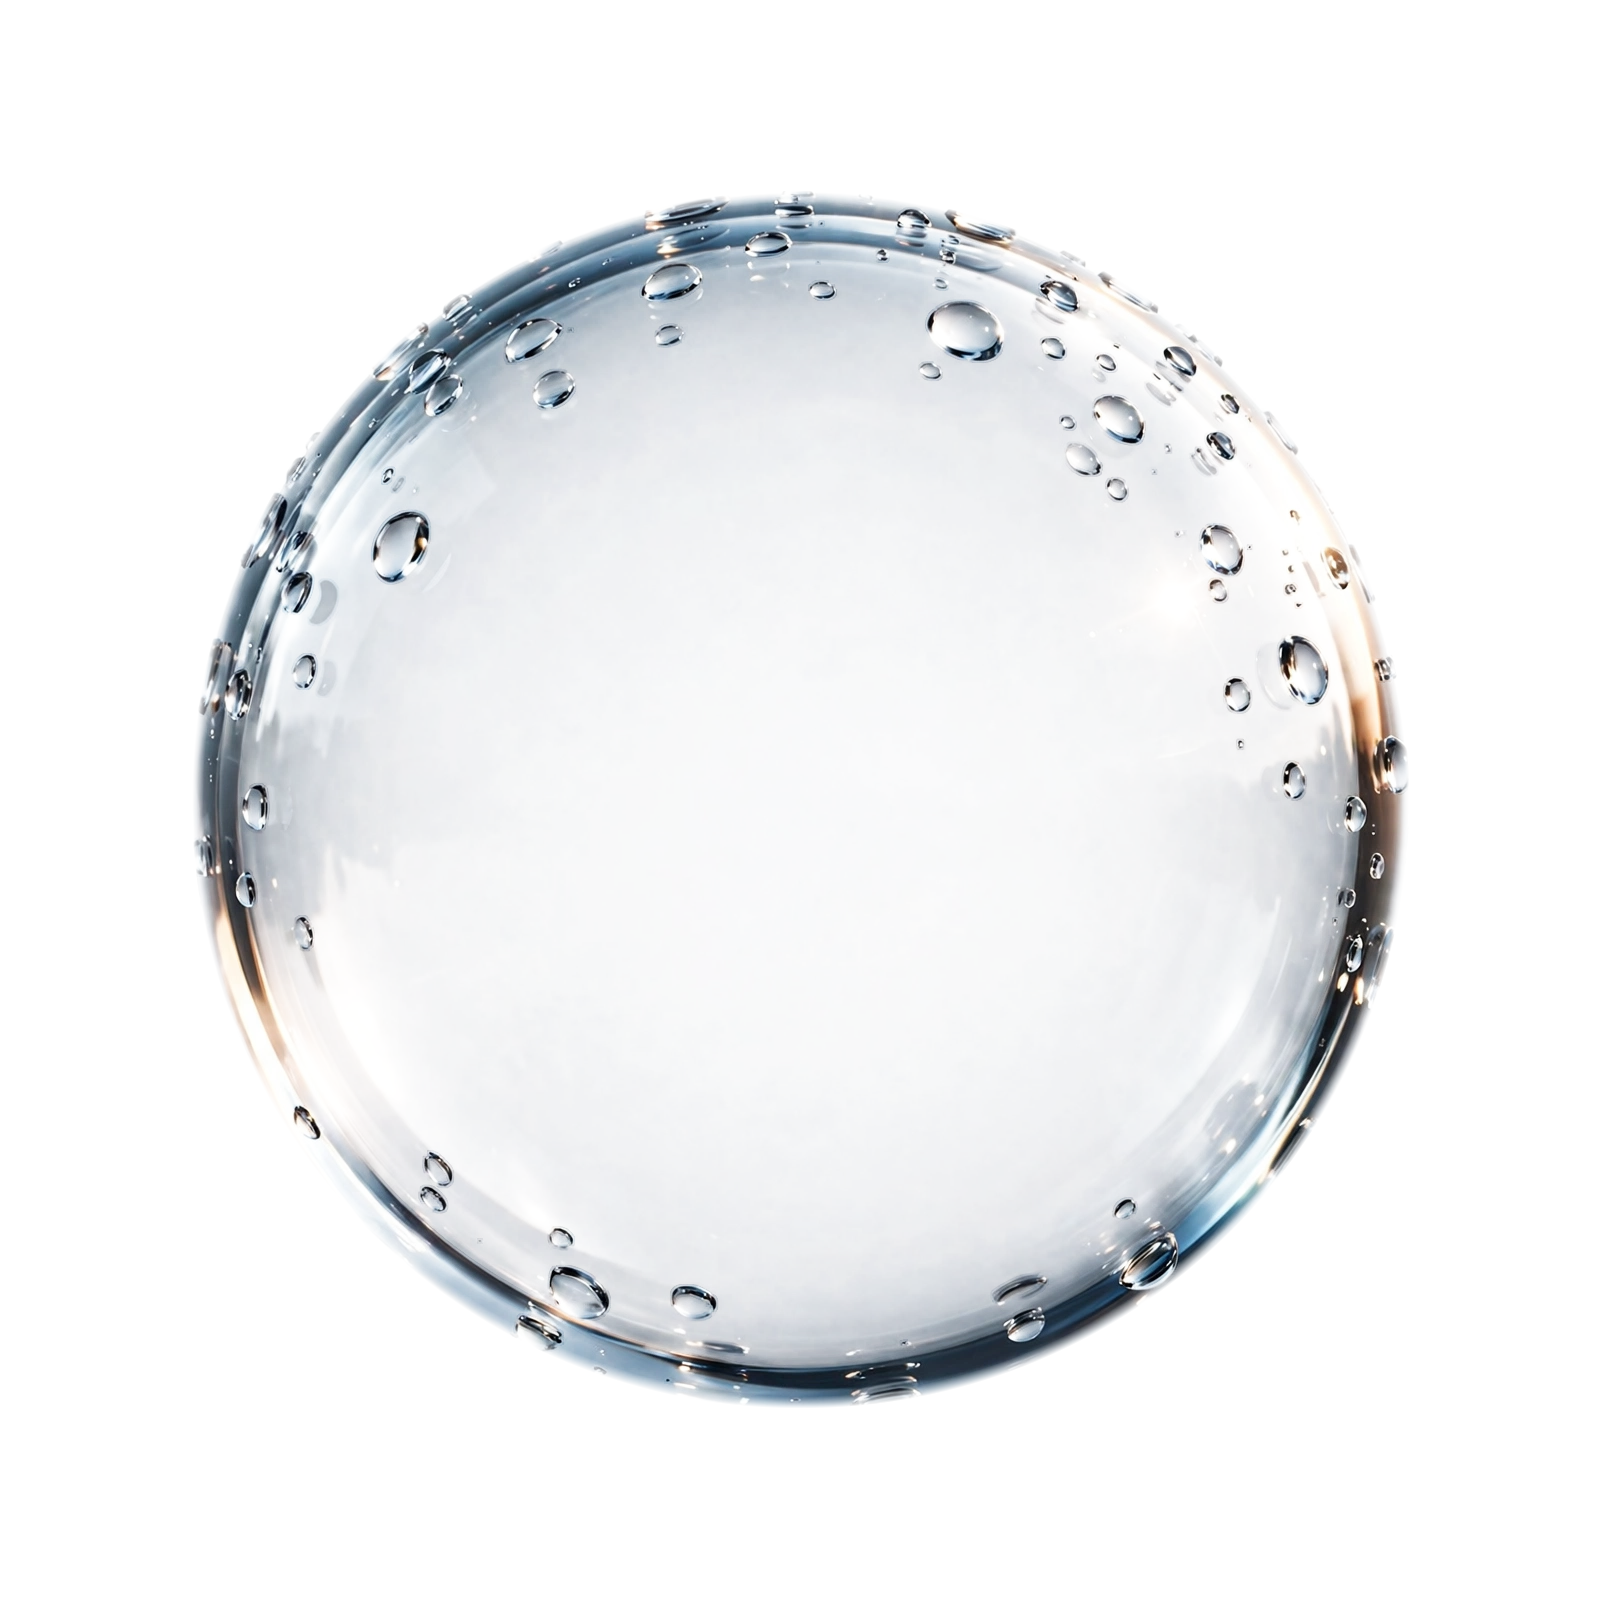
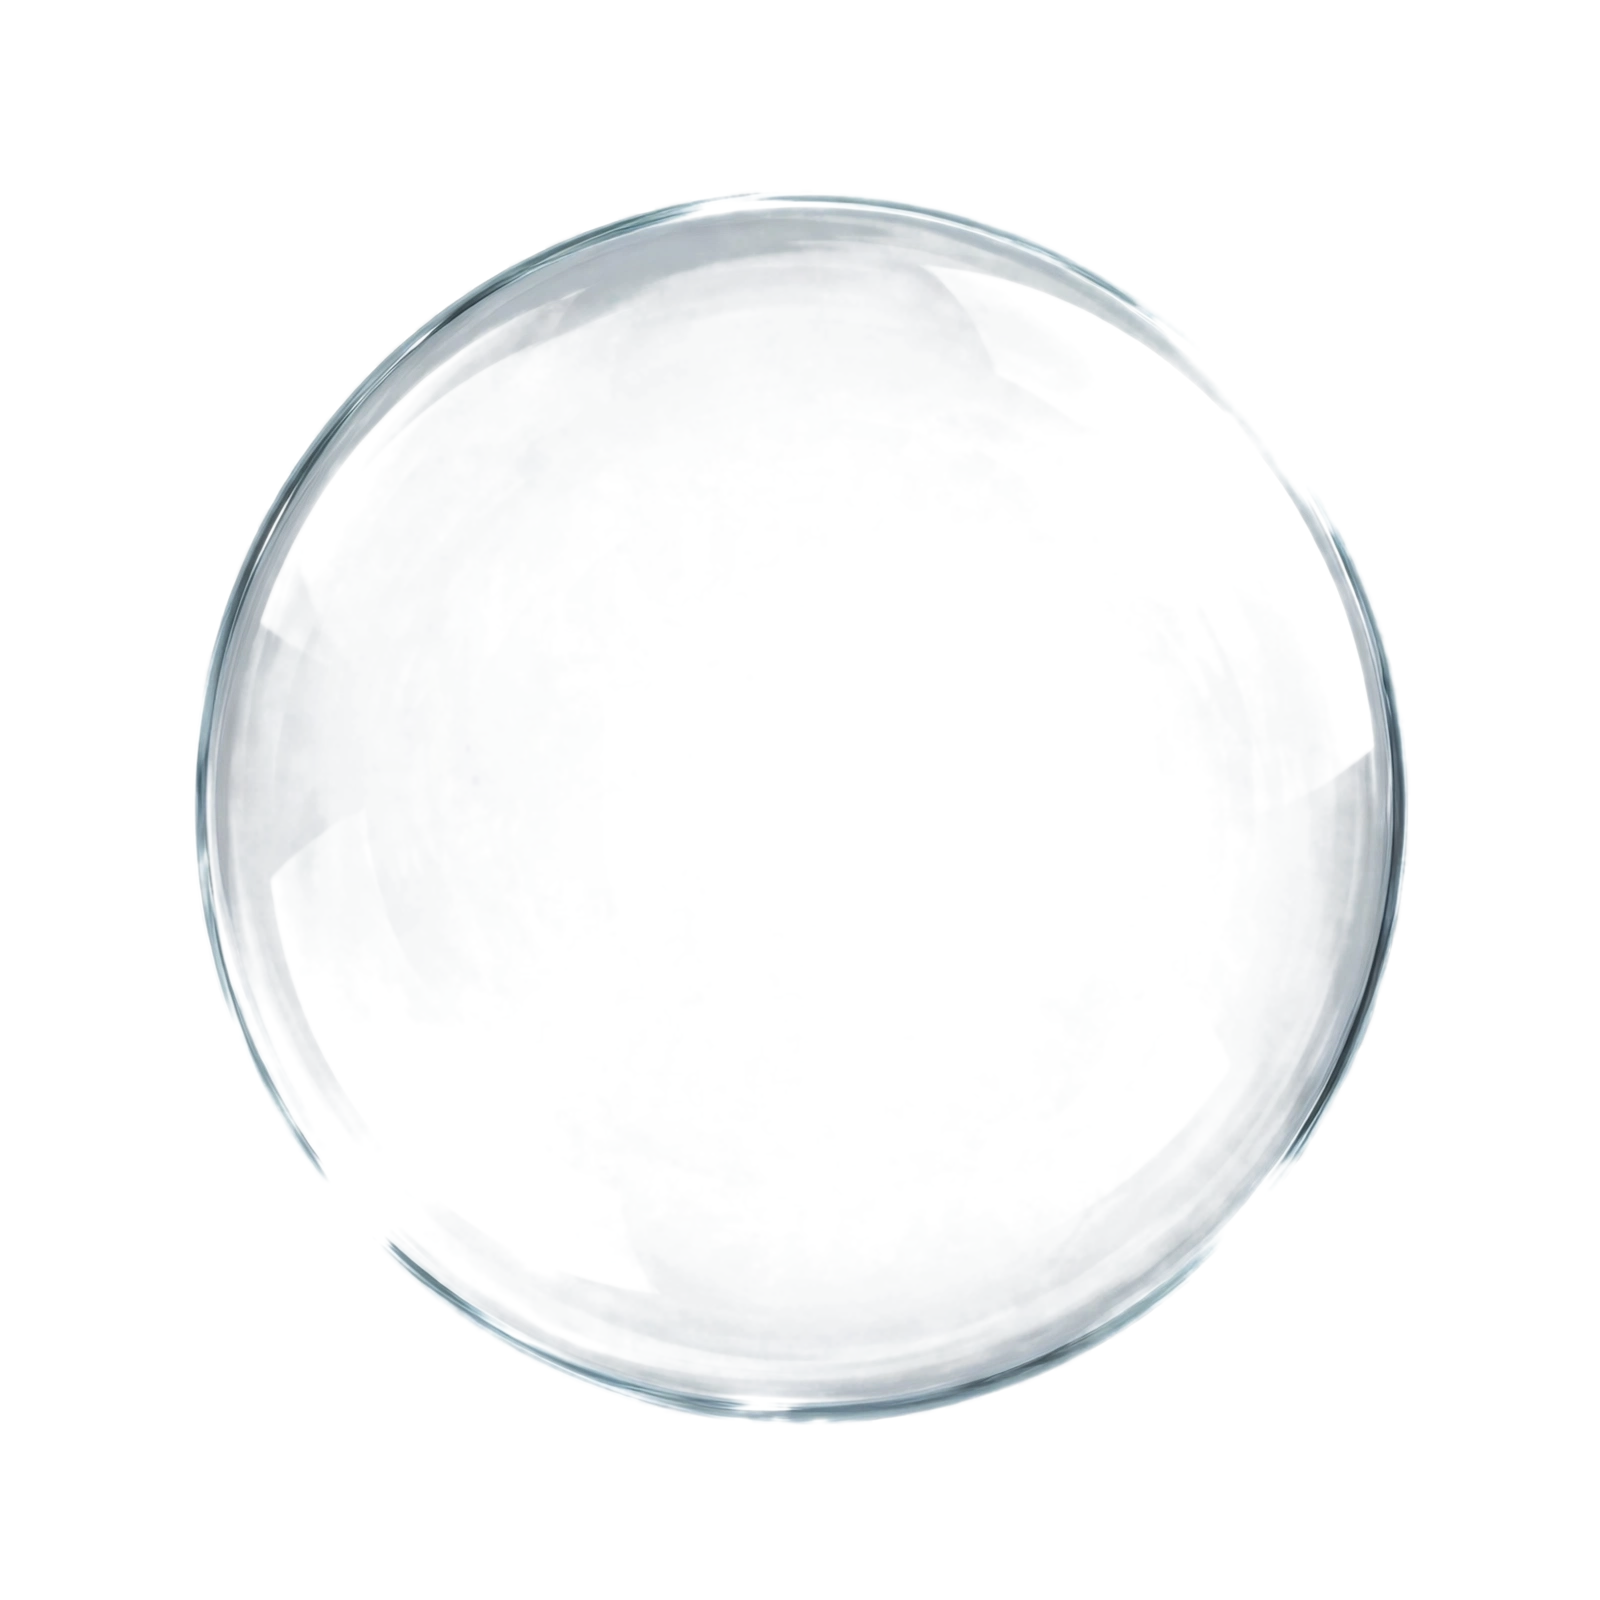
Natural meadow flora (blended photos, gust wind motion), doctor photo tile, clean minimal bubble

Changed region(s): [[0.125, 0.125, 0.9062, 0.9062]]

diff --git a/frontend/app/page.tsx b/frontend/app/page.tsx
@@ -42,7 +42,7 @@ export default function LandingPage() {
         gsap.set(".hl-inner", { yPercent: 0 });
         gsap.set("[data-fade]", { opacity: 1, y: 0 });
         gsap.set("[data-orb-enter]", { opacity: 1, scale: 1 });
-        gsap.set(".flora-layer", { rotation: 0, x: 0 });
+        gsap.set(".flora-layer", { xPercent: 0, skewX: 0 });
         gsap.set("[data-petal]", { opacity: 0.7 });
         return;
       }
@@ -131,6 +131,38 @@ export default function LandingPage() {
 
       // Subtle mouse parallax on the whole bubble group (±18px)
       const fine = window.matchMedia("(pointer: fine)").matches;
+
+      // ── Botanical wind: horizontal drift with irregular gusts ─
+      // Each 120%-wide photo layer drifts ±2–3% sideways with a soft
+      // skewX "breeze bend". Gusts alternate lulls and pushes with
+      // randomized timing — never a perfect pendulum sine. Back and
+      // front layers drift in opposite phases for parallax depth.
+      const gustDrift = (layer: HTMLElement, dir: 1 | -1) => {
+        const push = () => {
+          gsap.to(layer, {
+            xPercent: dir * rand(1.2, 2.8),
+            skewX: dir * rand(0.2, 0.6),
+            duration: rand(2, 3.2),
+            ease: "power1.inOut",
+            onComplete: () => {
+              gsap.to(layer, {
+                xPercent: dir * rand(-0.6, 0.6),
+                skewX: 0,
+                duration: rand(3, 5),
+                ease: "sine.inOut",
+                onComplete: () => gsap.delayedCall(rand(0.4, 1.8), push),
+              });
+            },
+          });
+        };
+        gsap.delayedCall(rand(0, 1.5), push);
+      };
+      const driftFlora = () => {
+        gsap.utils
+          .toArray<HTMLElement>(".flora-layer")
+          .forEach((layer, i) => gustDrift(layer, i === 0 ? -1 : 1));
+      };
+
       if (fine && parallaxRef.current) {
         const qx = gsap.quickTo(parallaxRef.current, "x", {
           duration: 0.9,
@@ -148,20 +180,7 @@ export default function LandingPage() {
         };
         window.addEventListener("mousemove", onMove);
 
-        // ── Botanical wind: each photo layer sways on its own
-        // rhythm for parallax depth ─────────────────────────────
-        const layers = gsap.utils.toArray<HTMLElement>(".flora-layer");
-        layers.forEach((layer, i) => {
-          gsap.to(layer, {
-            rotation: (i === 0 ? 1 : -1) * rand(1, 1.5),
-            x: (i === 0 ? -1 : 1) * rand(8, 18),
-            duration: rand(4, 7),
-            yoyo: true,
-            repeat: -1,
-            ease: "sine.inOut",
-            delay: rand(0, 2),
-          });
-        });
+        driftFlora();
 
         // ── A few petals drifting on the breeze ────────────────
         gsap.utils.toArray<HTMLElement>("[data-petal]").forEach((petal) => {
@@ -180,18 +199,8 @@ export default function LandingPage() {
         return () => window.removeEventListener("mousemove", onMove);
       }
 
-      // No fine pointer: still sway the flora layers
-      gsap.utils.toArray<HTMLElement>(".flora-layer").forEach((layer, i) => {
-        gsap.to(layer, {
-          rotation: (i === 0 ? 1 : -1) * rand(1, 1.5),
-          x: (i === 0 ? -1 : 1) * rand(8, 18),
-          duration: rand(4, 7),
-          yoyo: true,
-          repeat: -1,
-          ease: "sine.inOut",
-          delay: rand(0, 2),
-        });
-      });
+      // No fine pointer: drift the flora layers with the same gust rhythm
+      driftFlora();
     },
     { scope: rootRef },
   );
@@ -242,11 +251,15 @@ export default function LandingPage() {
           className="group flex flex-col items-center gap-3"
           aria-label="Meet Dr. Ananya Sharma — sign in"
         >
-          <span className="relative block h-[76px] w-[60px] overflow-visible rounded-2xl border border-[#0e2a28]/12 bg-white/70 shadow-soft backdrop-blur transition-transform duration-500 group-hover:-translate-y-1 dark:border-white/15 dark:bg-white/[0.06]">
-            <span
-              className={`${fraunces.className} flex h-full items-center justify-center text-[26px] font-light text-[#0e2a28]/80 dark:text-white/85`}
-            >
-              AS
+          <span className="relative block h-[76px] w-[60px] overflow-visible rounded-2xl border border-[#0e2a28]/12 shadow-soft transition-transform duration-500 group-hover:-translate-y-1 dark:border-white/15">
+            <span className="absolute inset-0 overflow-hidden rounded-2xl">
+              <Image
+                src="/doctor-portrait.jpg"
+                alt="Dr. Ananya Sharma"
+                fill
+                sizes="60px"
+                className="object-cover"
+              />
             </span>
             <span className="absolute -bottom-2.5 -right-2.5 flex h-9 w-9 items-center justify-center rounded-full bg-[#0e2a28] text-[#f7f4ec] shadow-soft transition-transform duration-500 group-hover:scale-110 dark:bg-mint-300 dark:text-abyss-950">
               <svg

diff --git a/frontend/components/FloraStrip.tsx b/frontend/components/FloraStrip.tsx
@@ -3,11 +3,12 @@
 import Image from "next/image";
 
 /**
- * FloraStrip — photorealistic botanical layers along the bottom edge of the
- * landing hero. Two depth rows (soft-focus meadow bokeh behind, sharp daisies
- * and grasses in front). Each layer carries the `flora-layer` class; the
- * page's GSAP timeline sways them independently for parallax wind. True-alpha
- * PNGs; the top edge of each photo melts into the background via a CSS mask.
+ * FloraStrip — dense meadow photographs along the bottom edge of the
+ * landing hero. NO cutouts: two full rectangular photos blended into the
+ * page with CSS masks (top + side fades), so there are no fringes or halos.
+ * Each layer is 120% viewport width and carries the `flora-layer` class;
+ * the page's GSAP timeline drifts them horizontally with irregular gust
+ * timing for natural parallax wind.
  */
 export default function FloraStrip() {
   return (
@@ -15,28 +16,31 @@ export default function FloraStrip() {
       aria-hidden="true"
       className="pointer-events-none absolute inset-x-0 bottom-0 z-[1] overflow-hidden"
     >
-      {/* back layer: soft-focus meadow bokeh */}
-      <div className="flora-layer absolute inset-x-0 bottom-0 h-32 sm:h-40 dark:brightness-[0.72] dark:saturate-90">
+      {/* back layer: sunlit daisy meadow */}
+      <div className="flora-layer absolute bottom-0 left-[-10vw] h-[26vh] w-[120vw] sm:h-[32vh]">
         <Image
-          src="/flora-back.png"
+          src="/meadow-back.jpg"
           alt=""
           fill
-          sizes="100vw"
-          className="flora-img object-cover object-bottom opacity-90 blur-[1.5px]"
+          sizes="120vw"
+          className="flora-photo object-cover object-bottom dark:brightness-[0.62] dark:saturate-[0.85]"
         />
+        {/* cool tint so the photo melts into the dark theme */}
+        <div className="absolute inset-0 hidden dark:block dark:bg-[#0d3b38]/35" />
       </div>
-      {/* front layer: sharp daisies, seed heads and grasses */}
-      <div className="flora-layer absolute inset-x-0 bottom-0 h-44 sm:h-60 dark:brightness-[0.72] dark:saturate-90">
+      {/* front layer: lush close-up meadow */}
+      <div className="flora-layer absolute bottom-0 left-[-10vw] h-[32vh] w-[120vw] sm:h-[38vh]">
         <Image
-          src="/flora-front.png"
+          src="/meadow-front.jpg"
           alt=""
           fill
-          sizes="100vw"
-          className="flora-img object-cover object-bottom"
+          sizes="120vw"
+          className="flora-photo object-cover object-bottom dark:brightness-[0.62] dark:saturate-[0.85]"
         />
+        <div className="absolute inset-0 hidden dark:block dark:bg-[#0d3b38]/35" />
       </div>
       {/* spacer gives the strip its height */}
-      <div className="h-44 sm:h-60" />
+      <div className="h-[32vh] sm:h-[38vh]" />
     </div>
   );
 }

diff --git a/frontend/app/globals.css b/frontend/app/globals.css
@@ -202,29 +202,29 @@ body {
 }
 
 /* ---------- Landing flora strip ---------- */
-/* Muted botanical tones for the swaying wildflowers; deepened in dark mode */
+/* Drifting petal/pollen accents; deepened in dark mode */
 :root {
-  --flora-stem: #7d8f6f;
-  --flora-leaf: #93a986;
-  --flora-grass: #a9b795;
   --flora-petal: #f4f0e3;
-  --flora-center: #d9b25f;
 }
 .dark {
-  --flora-stem: #3a5a4e;
-  --flora-leaf: #2e4a42;
-  --flora-grass: #41604f;
   --flora-petal: #cfe3da;
-  --flora-center: #8a6f3a;
 }
-/* GSAP sways each photographic layer around its bottom edge */
+/* GSAP drifts each 120%-wide photographic layer horizontally */
 .flora-layer {
   transform-origin: 50% 100%;
+  will-change: transform;
 }
-/* photo top edges melt into the background instead of cutting off */
-.flora-img {
-  -webkit-mask-image: linear-gradient(to bottom, transparent 0%, black 42%);
-  mask-image: linear-gradient(to bottom, transparent 0%, black 42%);
+/* photo edges melt into the background instead of cutting off —
+   top fade plus soft left/right fades, so no hard edges anywhere */
+.flora-photo {
+  -webkit-mask-image:
+    linear-gradient(to bottom, transparent 0%, black 45%),
+    linear-gradient(to right, transparent 0%, black 7%, black 93%, transparent 100%);
+  -webkit-mask-composite: source-in;
+  mask-image:
+    linear-gradient(to bottom, transparent 0%, black 45%),
+    linear-gradient(to right, transparent 0%, black 7%, black 93%, transparent 100%);
+  mask-composite: intersect;
 }
 
 /* slow, barely-there drift for the ambient mesh gradient */
